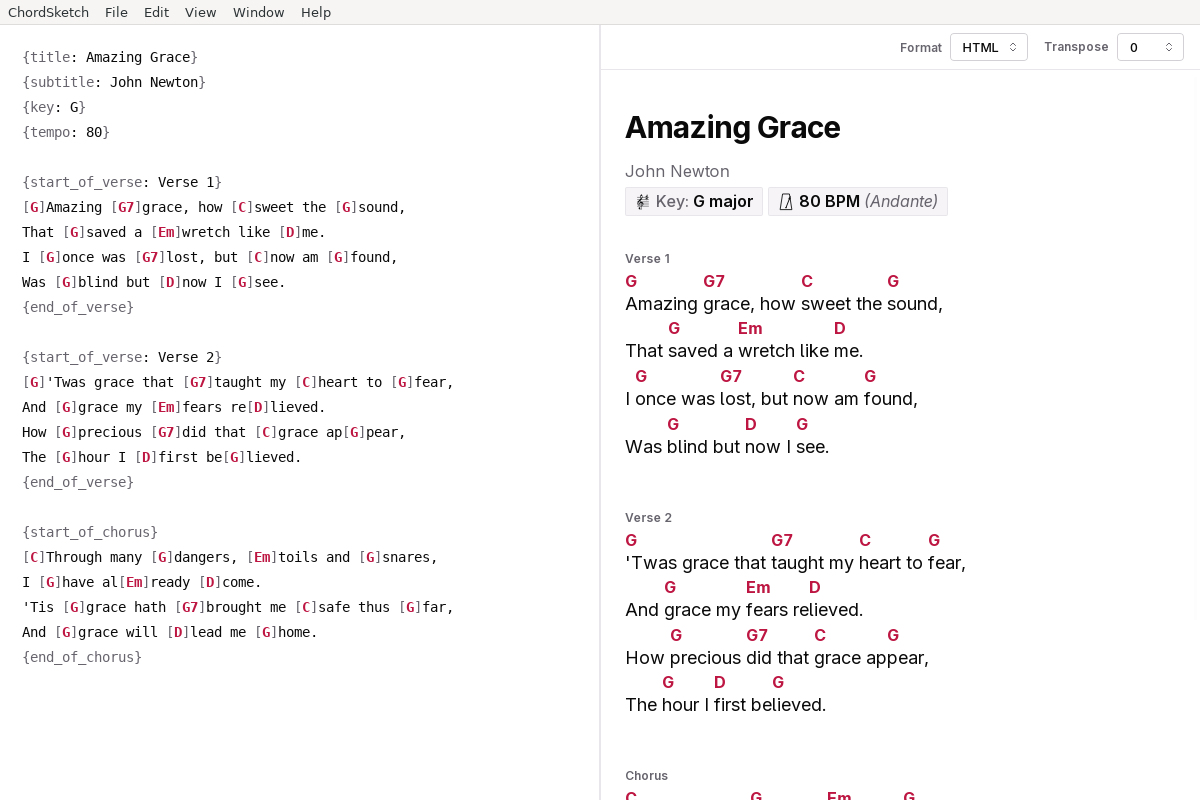
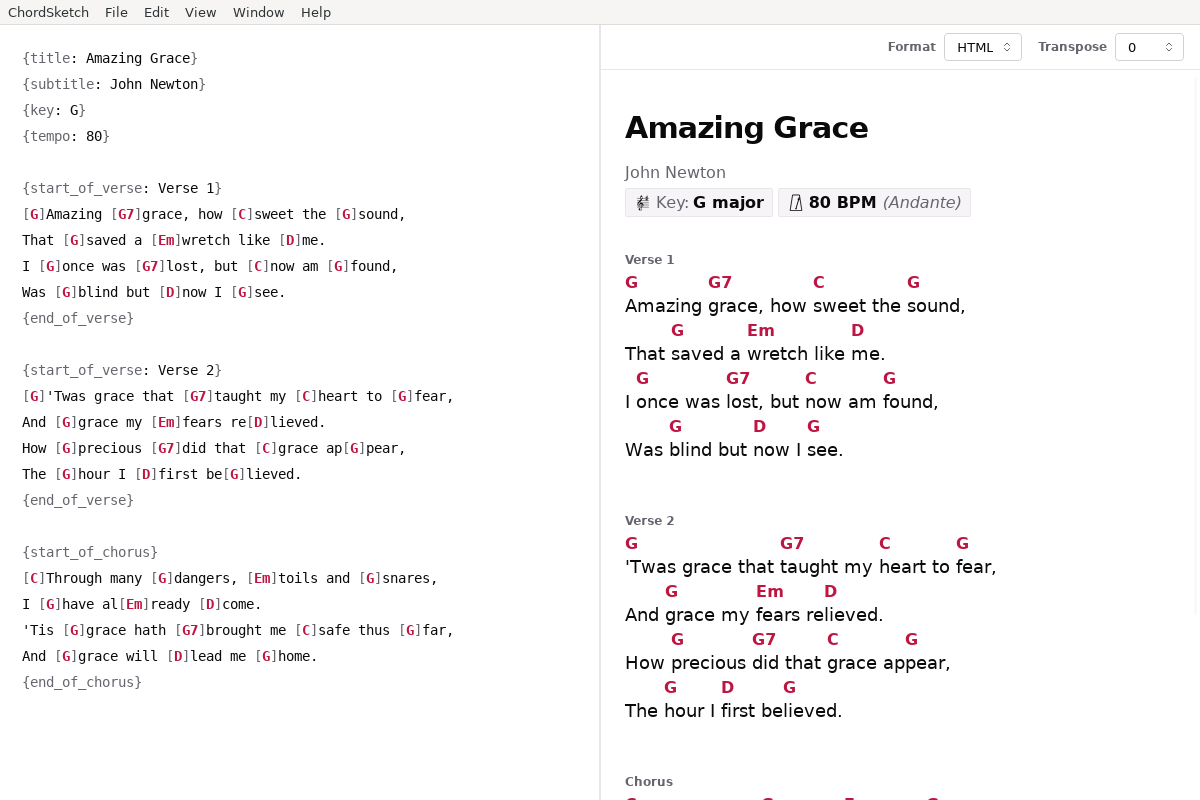
chore(flatpak): build the desktop app on the GNOME 51 runtime (#2954)
* chore(flatpak): build the desktop app on the GNOME 51 runtime

Flathub asks a submission to name the newest runtime. GNOME 51 has been on
Flathub since 17 September, and `org.freedesktop.Sdk.Extension.node24//26.08`
and `llvm22//26.08` — the branch GNOME 51's SDK names its extension point —
are now served too, so the manifest can move.

The flathub-infra build image has no `gnome-51` tag yet. It does not need one:
the build already passes `--install-deps-from=flathub`, so the runtime the
manifest names is installed from Flathub rather than taken from the image.
Both places that pin the image say so, since the tag no longer matches the
manifest's runtime.

`check-publishable.py flathub` passes on 51: the manifest and repo lint clean,
the Flatpak builds offline and the app reaches its started window title.

* chore(flatpak): re-take the listing screenshot on the GNOME 51 runtime

The runtime's text rendering lays the same window out with slightly taller
lines, so the shipped shot no longer matches what a user sees. Re-taken with
`packaging/flatpak/screenshot.py` against the GNOME 51 build.

The metainfo still points at the image in 2a117e8; it is re-pointed at the
commit carrying this file once that commit is on main, the way #2937 followed
#2933.

---------

diff --git a/scripts/_publish_checks.py b/scripts/_publish_checks.py
@@ -1826,7 +1826,9 @@ def desktop_updater_problems(version: str, runner: Runner = run) -> list[str]:
 
 FLATPAK_APP_ID = "io.github.koedame.chordsketch"
 # The image flatpak/flatpak-github-actions builds in: flatpak-builder,
-# flatpak-builder-lint, Xvfb and the GNOME runtime the manifest names.
+# flatpak-builder-lint and Xvfb. Its newest tag lags the newest GNOME
+# runtime, so the runtime the manifest names is the one the build installs
+# from Flathub (`--install-deps-from=flathub`), not the one it ships.
 FLATPAK_IMAGE = "ghcr.io/flathub-infra/flatpak-github-actions:gnome-50"
 # The desktop app writes this title once its startup has finished (the menu
 # bar, the close prompt, then the title), and this one when startup failed.

diff --git a/packaging/flatpak/screenshot.py b/packaging/flatpak/screenshot.py
@@ -26,6 +26,8 @@ from pathlib import Path
 HERE = Path(__file__).resolve().parent
 REPO = HERE.parents[1]
 APP_ID = "io.github.koedame.chordsketch"
+# The newest tag flathub-infra publishes; it lags the newest GNOME runtime,
+# so the build installs the runtime the manifest names from Flathub instead.
 IMAGE = "ghcr.io/flathub-infra/flatpak-github-actions:gnome-50"
 # `apps/desktop/src-tauri/tauri.conf.json`'s window, and a screen with room
 # around it so the window is never resized to fit.

diff --git a/docs/publishing-requirements.md b/docs/publishing-requirements.md
@@ -389,7 +389,7 @@ unless another source is named. All automated ones run in the `flathub` job of
 | No network access during the build: every dependency is a source with a public URL and a checksum | Requirements: No network access during build | `flatpak-builder` offline build of the manifest `prepare.py` writes for the checkout; the tag form Flathub builds differs only in the application source and is linted |
 | The manifest passes `flatpak-builder-lint manifest`, and the built repository `flatpak-builder-lint repo`, with no error or warning | [Linter](https://docs.flathub.org/docs/for-app-authors/linter) | `flatpak_lint_problems` |
 | The application ID has 3 to 5 components, does not end in `.desktop` / `.app` / `.linux`, and, as a GitHub code-hosting ID, has the `io.github.` prefix, at least 4 components and names the repository (`github.com/koedame/chordsketch`) | Requirements: Application ID | `flatpak-builder-lint manifest` (including `appid-url-not-reachable`); ownership by hand at verification |
-| The runtime is hosted on Flathub, is its newest version at submission, and is not end-of-life | Requirements: Manifest; End-of-life dependency policy | `flatpak-builder-lint` (`runtime-is-eol-*`, `runtime-update-available-*`). `runtime-update-available-to-org.gnome.Platform-N` does not fail the check while Flathub does not serve one of the manifest's `sdk-extensions` on the branch GNOME N's SDK names (GNOME 51 and `node24//26.08` when this was written): the manifest cannot move until it does, and the check prints what it waits for. The newest version by hand at submission |
+| The runtime is hosted on Flathub, is its newest version at submission, and is not end-of-life | Requirements: Manifest; End-of-life dependency policy | `flatpak-builder-lint` (`runtime-is-eol-*`, `runtime-update-available-*`). `runtime-update-available-to-org.gnome.Platform-N` does not fail the check while Flathub does not serve one of the manifest's `sdk-extensions` on the branch GNOME N's SDK names: the manifest cannot move until it does, and the check prints what it waits for. The newest version by hand at submission |
 | The metainfo is `io.github.koedame.chordsketch.metainfo.xml`, its `id` is the application ID, and it passes `flatpak-builder-lint appstream` (which fails on warnings), with a license, developer, description, launchable, screenshots linked from a commit, OARS rating and releases | [MetaInfo guidelines](https://docs.flathub.org/docs/for-app-authors/metainfo-guidelines/) | `flatpak-builder-lint appstream` |
 | Screenshots are reachable and mirrored to `dl.flathub.org/media` | Linter: `appstream-external-screenshot-url` | the build uses Flathub's `--mirror-screenshots-url` and `--compose-url-policy=full`; `flatpak-builder-lint repo` |
 | The newest metainfo release is the desktop version | — | `scripts/check-version-consistency.py` |

diff --git a/packaging/flatpak/README.md b/packaging/flatpak/README.md
@@ -28,8 +28,8 @@ Needs `flatpak`, `flatpak-builder`, Python 3.11+ and the Flathub remote.
 
 ```bash
 python3 -m pip install -r packaging/flatpak/requirements.txt
-flatpak install -y flathub org.gnome.Sdk//50 org.gnome.Platform//50 \
-  org.freedesktop.Sdk.Extension.node24//25.08 org.freedesktop.Sdk.Extension.llvm22//25.08 \
+flatpak install -y flathub org.gnome.Sdk//51 org.gnome.Platform//51 \
+  org.freedesktop.Sdk.Extension.node24//26.08 org.freedesktop.Sdk.Extension.llvm22//26.08 \
   org.flatpak.Builder
 packaging/flatpak/prepare.py --out build/flatpak
 flatpak-builder --user --install --force-clean build/flatpak/app build/flatpak/io.github.koedame.chordsketch.yml
